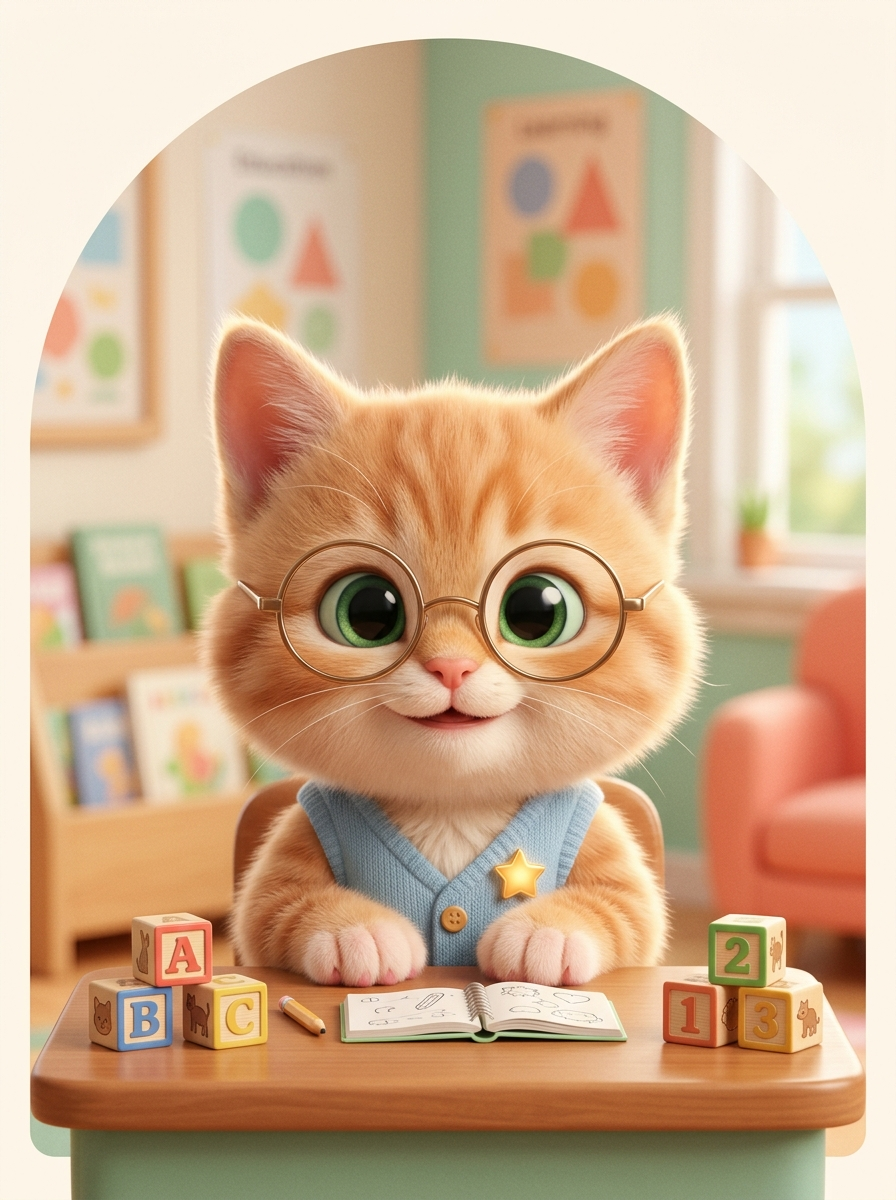
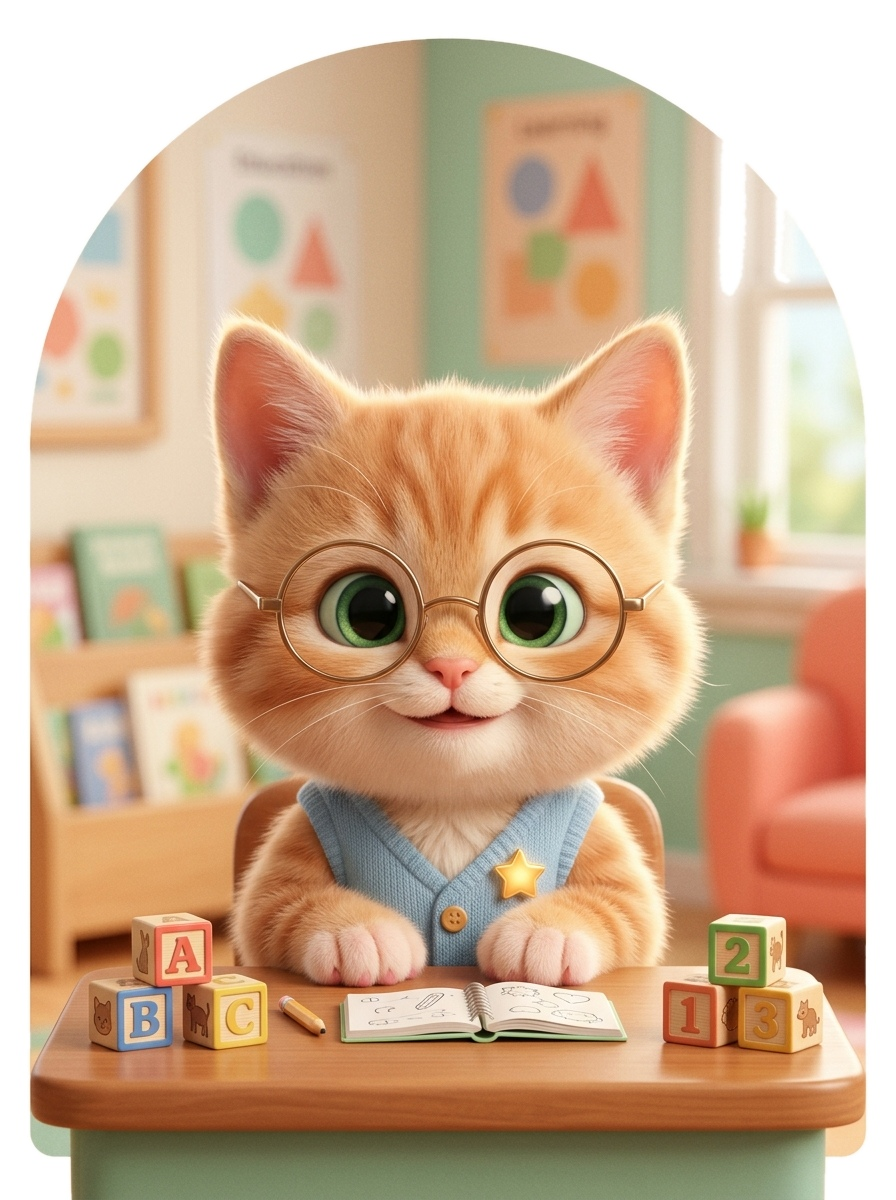
fix(middleware): align guest preview and /student routing with security test specs

diff --git a/src/middleware.ts b/src/middleware.ts
@@ -100,7 +100,7 @@ export function middleware(request: NextRequest) {
   // Generic /student: redirect to user's personal ID or require login
   if (pathname === '/student') {
     const targetId = authUserId || cookieUserId;
-    if (targetId && activeRole) {
+    if (targetId) {
       const url = request.nextUrl.clone();
       url.pathname = `/${targetId}`;
       const response = NextResponse.redirect(url);
@@ -126,17 +126,16 @@ export function middleware(request: NextRequest) {
 
   // ─────────────────────────────────────────────────────────
   // 3. CABINET ID PROTECTION (IDOR / BOLA GUARD: CWE-639)
-  // "id должен выдаваться после регистрации"
   // "если в строке ввел id кабинета то в него можно было войти только через наш вход в лк"
+  // "свободный просмотр разрешается только для свежего временного гостевого ID, который принадлежит именно этому посетителю (по aida_user_id)"
   // ─────────────────────────────────────────────────────────
   const pathParts = pathname.split('/').filter(Boolean);
   if (pathParts.length === 1 && !SYSTEM_ROUTES.has(pathParts[0].toLowerCase())) {
     const requestedId = pathParts[0].toLowerCase();
     const isOwner =
-      Boolean(activeRole) &&
-      (cookieUserId?.toLowerCase() === requestedId ||
-       authUserId?.toLowerCase() === requestedId ||
-       activeRole === 'admin');
+      cookieUserId?.toLowerCase() === requestedId ||
+      authUserId?.toLowerCase() === requestedId ||
+      activeRole === 'admin';
 
     // If caller does not own this cabinet ID or is not authenticated:
     // Require logging in or registering through our official login page!

diff --git a/src/app/page.tsx b/src/app/page.tsx
@@ -160,9 +160,9 @@ export default function HomePage() {
                 {/* Cat + Companion Feature Column (Completely fills the space beside the mascot) */}
                 <div className="flex items-stretch gap-3.5 sm:gap-4">
                   {/* Arched Organic Cat Mascot Frame with HD Generated Mascot */}
-                  <div className="w-32 h-44 sm:w-44 sm:h-52 lg:w-48 lg:h-56 rounded-[30px] sm:rounded-[40px] overflow-hidden relative shadow-sm border-2 border-white bg-[#FFF6EE] shrink-0">
+                  <div className="w-32 h-44 sm:w-44 sm:h-52 lg:w-48 lg:h-56 rounded-[30px] sm:rounded-[40px] overflow-hidden relative shadow-sm border-2 border-white bg-transparent shrink-0">
                     <Image
-                      src="/images/mascot-center-hd.jpg"
+                      src="/images/mascot-center-hd.png"
                       alt="Кот-наставник центра АйДаУмничка (Тольятти)"
                       fill
                       className="object-cover"

diff --git a/src/app/api/user/bind/route.ts b/src/app/api/user/bind/route.ts
@@ -82,12 +82,12 @@ export async function POST(req: NextRequest) {
 
     const payload = {
       public_id: publicId,
-      full_name: body.fullName || 'Гость платформы',
+      full_name: body.fullName || 'Новый ученик',
       role: role,
       phone: body.phone || null,
       email: body.email || null,
       auth_user_id: body.authUserId || null,
-      is_registered: Boolean(body.isRegistered),
+      is_registered: body.isRegistered !== undefined ? Boolean(body.isRegistered) : true,
       balance_lessons: balance,
       metadata: body.metadata || {},
       updated_at: new Date().toISOString(),

diff --git a/src/components/LoginModal.tsx b/src/components/LoginModal.tsx
@@ -14,7 +14,7 @@ interface LoginModalProps {
 export default function LoginModal({ isOpen, onClose }: LoginModalProps) {
   const router = useRouter();
   const [copied, setCopied] = useState(false);
-  const lkUrl = typeof window !== 'undefined' ? getLkUrl('/student') : '/student';
+  const lkUrl = typeof window !== 'undefined' ? getLkUrl('/login') : '/login';
 
   if (!isOpen) return null;
 
